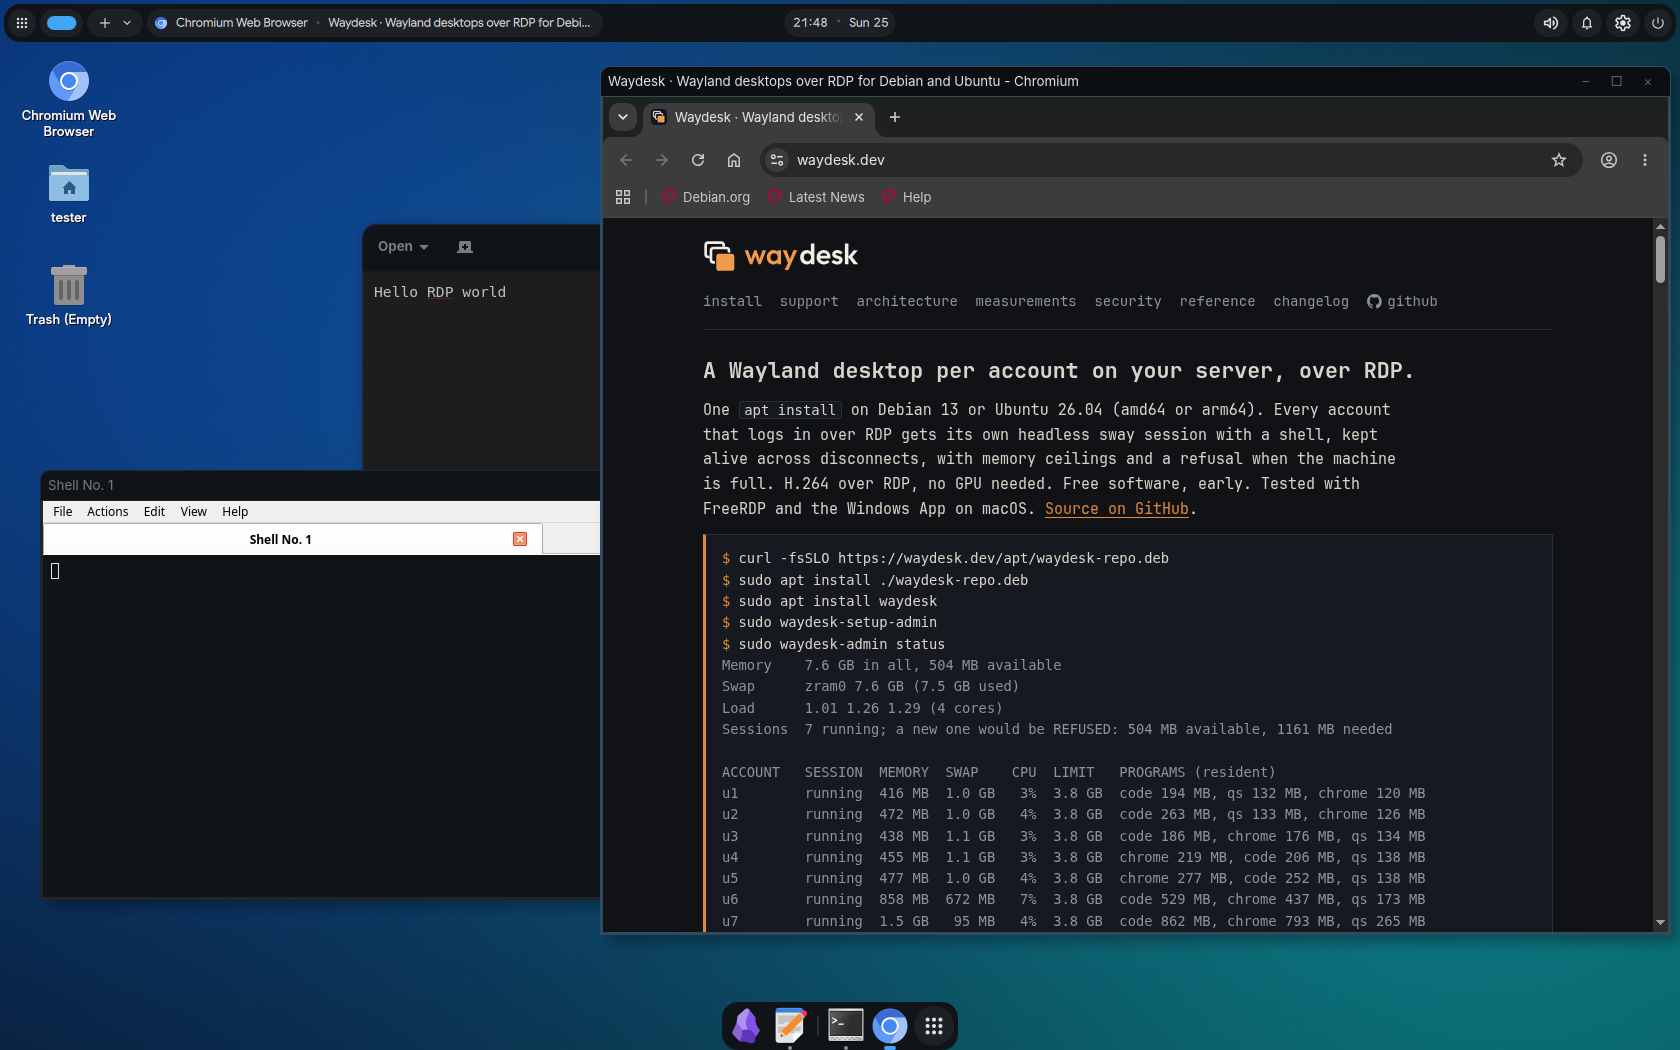
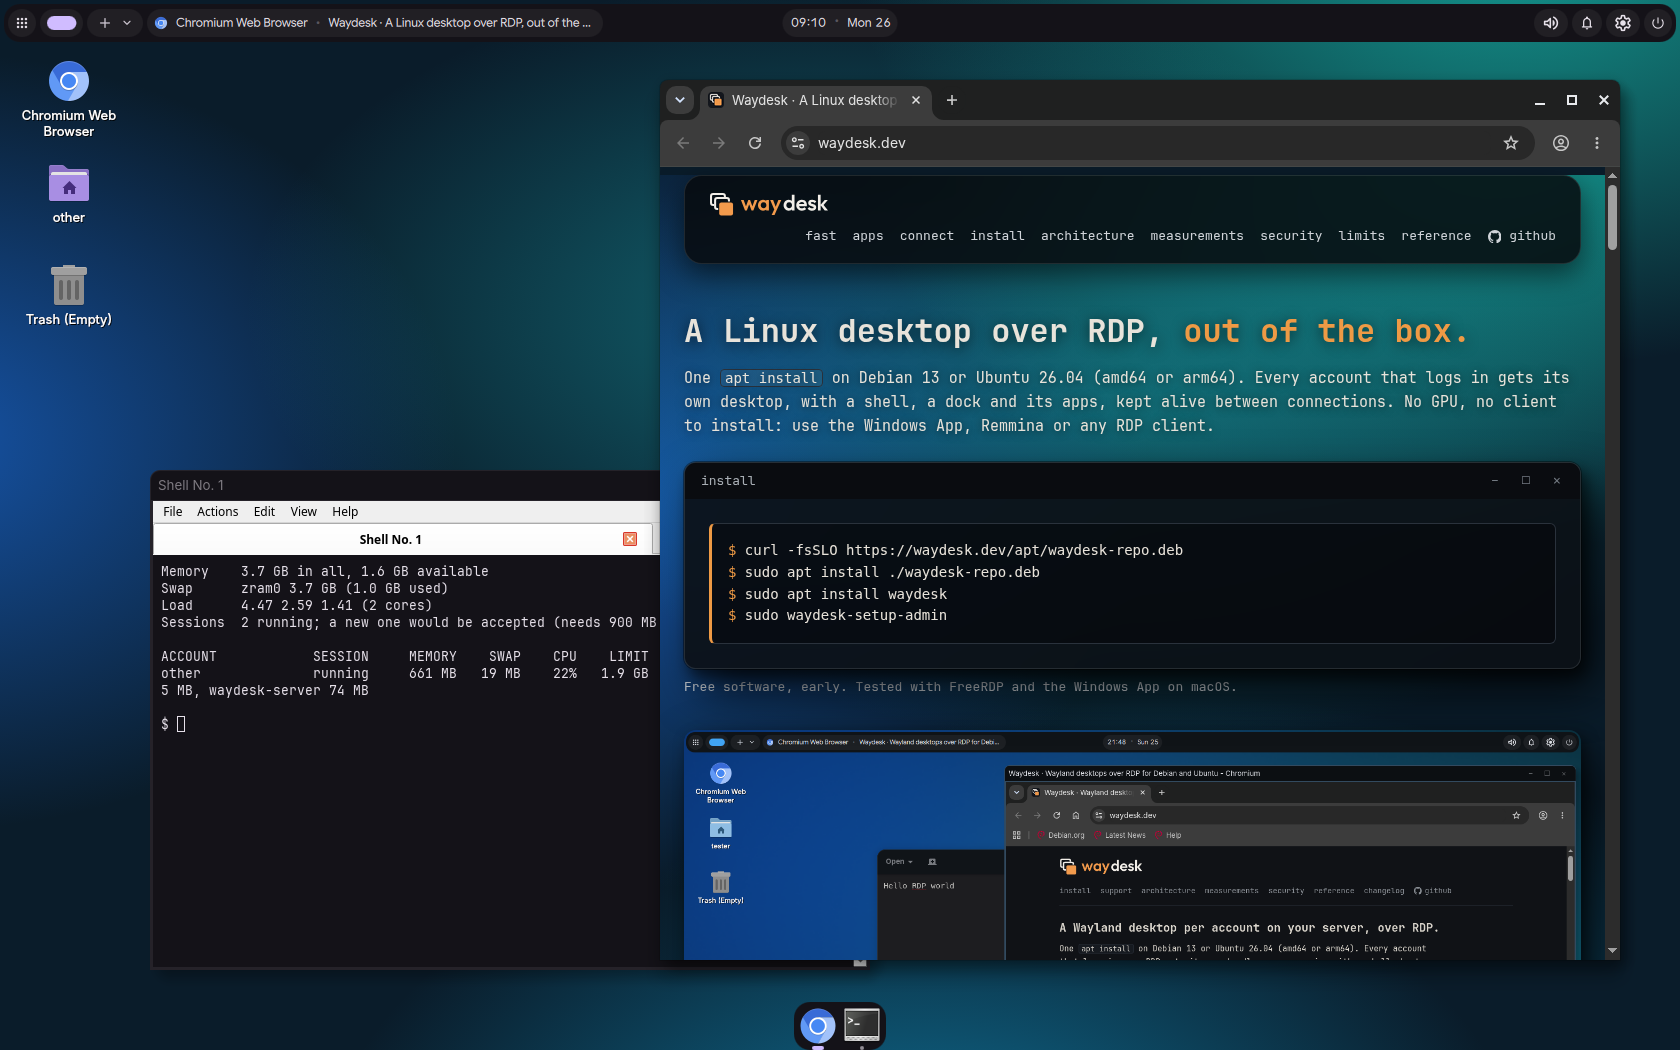
Site screenshot of the current desktop with the site's wallpaper; changelog 0.2.0

diff --git a/CHANGELOG.md b/CHANGELOG.md
@@ -1,10 +1,10 @@
 # Changelog
 
-What changed, newest first. The numbered releases are the ones in the apt repository; the first block is in the repository but not released yet.
+What changed, newest first. The numbered releases are the ones in the apt repository.
 
-## In the repository, not released yet
+## 2026-10-26 · 0.2.0
 
-Who can reach the port is set with one command each: `waydesk-admin access` (this machine, a local network or a VPN; the daemon closes source addresses that are not allowed before TLS and before any login), `cert local-ca` (a certificate that clients can verify), `vpn init` and `vpn add` (WireGuard), and `waydesk-setup-admin` asks how you will connect. X11 applications run (XWayland, one server per account). The mouse pointer has its real shapes (text cursor, resize arrows, hand), also for applications that draw their own cursor. TCP BBR for the connection, and flow control that follows the link: frames and bytes in flight, and a video bitrate that follows what the link delivers. Title bars and borders in the colours of the theme (dark or light), window buttons as a capsule, soft shadows and rounded title-bar corners. The dock floats over the bottom of the screen and bounces while an application starts. Flatpak and GTK applications no longer wait minutes for a dead portal after a login.
+Who can reach the port is set with one command each: `waydesk-admin access` (this machine, a local network or a VPN; the daemon closes source addresses that are not allowed before TLS and before any login), `cert local-ca` (a certificate that clients can verify), `vpn init` and `vpn add` (WireGuard), and `waydesk-setup-admin` asks how you will connect. X11 applications run (XWayland, one server per account). The mouse pointer has its real shapes (text cursor, resize arrows, hand), also for applications that draw their own cursor. TCP BBR for the connection, and flow control that follows the link: frames and bytes in flight, and a video bitrate that follows the best rate the link delivered in the last 10 seconds (it aims for 80 % of it: on a lossy 5 Mbit/s link it went from 1-2.7 to 3.4-4.7 Mbit/s). The H.264 encoder runs at low complexity by default (15-36 % less CPU under motion), with environment overrides and `waydesk-encbench` to measure them. Title bars and borders in the colours of the theme (dark or light), window buttons as a capsule, soft shadows and rounded title-bar corners. The dock floats over the bottom of the screen and bounces while an application starts. Flatpak and GTK applications no longer wait minutes for a dead portal after a login.
 
 ## 2026-10-24 · 0.1.0
 
